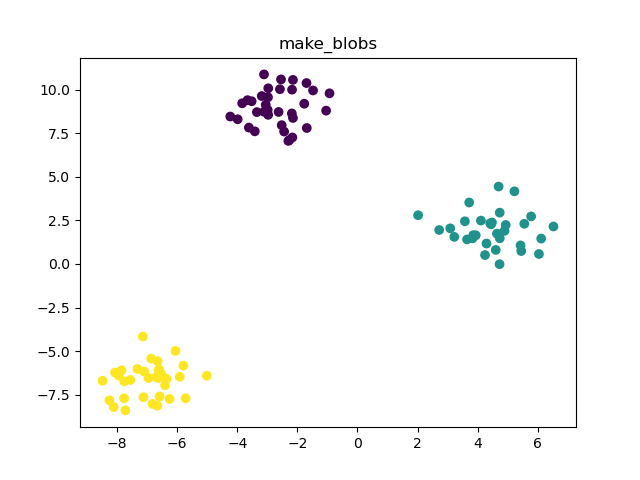
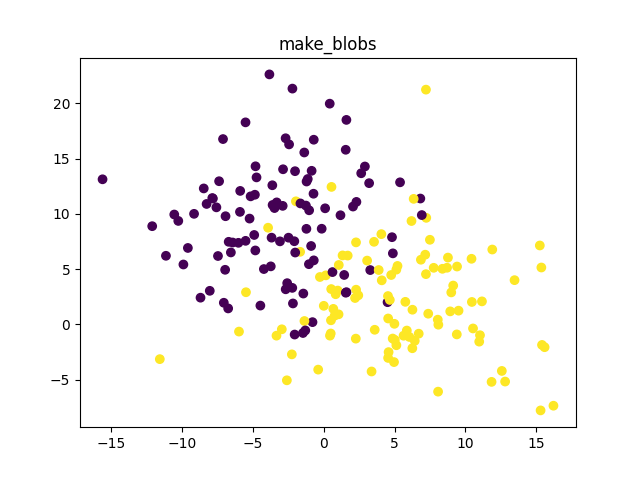
ss16

diff --git a/session14/data.py b/session14/data.py
@@ -1,14 +1,20 @@
 from sklearn.datasets import make_blobs , make_moons
 import matplotlib.pyplot as plt
+import pandas as pd
 
-x1,labels1 = make_blobs(n_samples=200, cluster_std=1.0 , centers=3, random_state=42)
+x1,labels1 = make_blobs(n_samples=200, cluster_std=5.0 ,n_features=2, centers=2, random_state=42)
+
+# save data
+pd.DataFrame(x1).to_csv("session14/make_blobs_x.csv", index=False)
+
+
 plt.scatter(x1[:,0], x1[:,1], c=labels1)
 plt.title("make_blobs")
 plt.savefig("session14/make_blobs.png")
 plt.clf()
 
-x2,labels2 = make_moons(n_samples=200, noise=0.1, random_state=42) 
-plt.scatter(x2[:,0], x2[:,1], c=labels2)
-plt.title("make_moons")
-plt.savefig("session14/make_moons.png")
-plt.clf()
+# x2,labels2 = make_moons(n_samples=200, noise=0.1, random_state=42) 
+# plt.scatter(x2[:,0], x2[:,1], c=labels2)
+# plt.title("make_moons")
+# plt.savefig("session14/make_moons.png")
+# plt.clf()

diff --git a/session14/k_means.py b/session14/k_means.py
@@ -1,0 +1,21 @@
+from sklearn.cluster import KMeans
+import pandas as pd
+import matplotlib.pyplot as plt
+# Load the data
+
+df= pd.read_csv("session14/make_blobs_x.csv")
+
+KMeans = KMeans(n_clusters=2, random_state=42,n_init="auto")
+KMeans.fit(df)
+# Predict the labels
+labels = KMeans.predict(df)
+# Add the labels to the dataframe
+df['labels'] = labels
+# Plot the data with the labels
+plt.scatter(df.iloc[:, 0], df.iloc[:, 1], c=df['labels'], cmap='viridis')
+plt.title("KMeans Clustering")
+plt.xlabel("Feature 1")
+plt.ylabel("Feature 2")
+plt.savefig("session14/kmeans_clustering.png")
+plt.clf()
+
